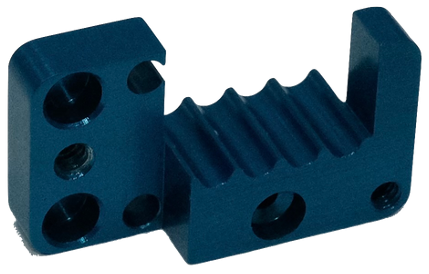
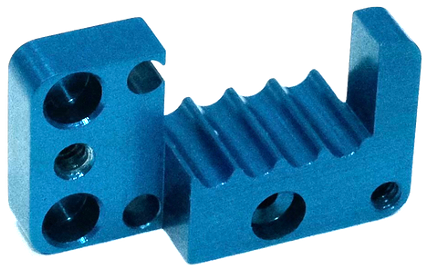
upped exposure and updated images

diff --git a/app/src/components/pages/work/material-list.tsx b/app/src/components/pages/work/material-list.tsx
@@ -4,33 +4,33 @@ import Modal from "@/components/ui/modal";
 import { useState } from "react";
 
 export default function MaterialList() {
-  const [isOpen, setIsOpen] = useState(false);
+    const [isOpen, setIsOpen] = useState(false);
 
-  return (
-    <>
-      <p
-        className="text-primary underline inline-block cursor-pointer"
-        onClick={() => setIsOpen(true)}
-      >
-        comprehensive list
-      </p>
-      <Modal
-        isOpen={isOpen}
-        onClose={() => setIsOpen(false)}
-        title="Material list"
-        size="md"
-      >
-        <ul className="flex flex-col gap-3">
-          <li>ULTEM™</li>
-          <li>PEEK</li>
-          <li>Torlon®</li>
-          <li>ESD Polycarbonate</li>
-          <li>Teflon</li>
-          <li>Vespel®</li>
-          <li>Rexolite®</li>
-          <li>C-STOCK AK / AK-500</li>
-        </ul>
-      </Modal>
-    </>
-  );
+    return (
+        <>
+            <span
+                className="text-primary underline inline-block cursor-pointer"
+                onClick={() => setIsOpen(true)}
+            >
+                comprehensive list
+            </span>
+            <Modal
+                isOpen={isOpen}
+                onClose={() => setIsOpen(false)}
+                title="Material list"
+                size="md"
+            >
+                <ul className="flex flex-col gap-3">
+                    <li>ULTEM™</li>
+                    <li>PEEK</li>
+                    <li>Torlon®</li>
+                    <li>ESD Polycarbonate</li>
+                    <li>Teflon</li>
+                    <li>Vespel®</li>
+                    <li>Rexolite®</li>
+                    <li>C-STOCK AK / AK-500</li>
+                </ul>
+            </Modal>
+        </>
+    );
 }
